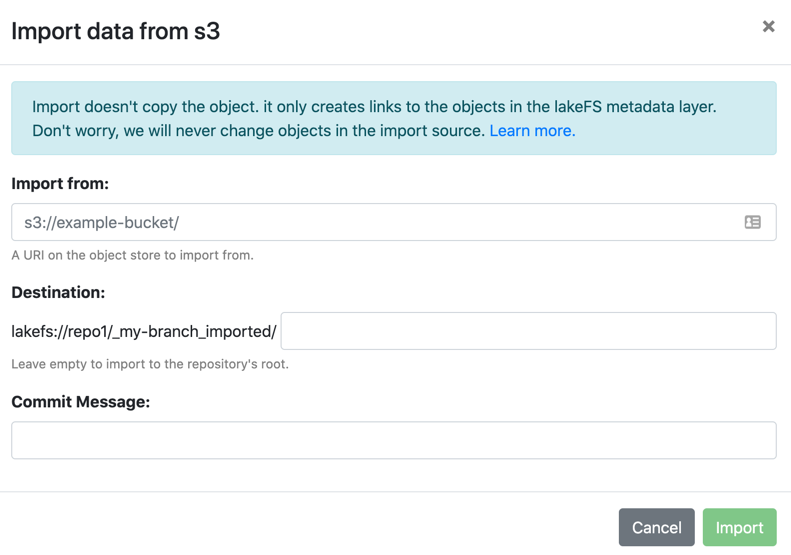
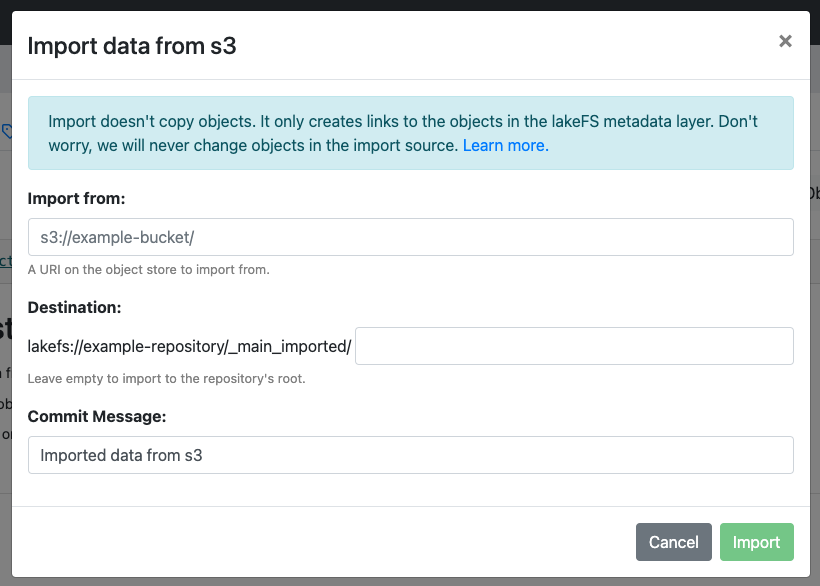
revised structure and clearer (hopefully) explanations on importing data (#4409)

Changed region(s): [[0.0, 0.0, 1.0, 1.0]]

diff --git a/docs/setup/import.md b/docs/setup/import.md
@@ -1,7 +1,7 @@
 ---
 layout: default
 title: Import data into lakeFS 
-description: To import existing data to lakeFS, you may choose to copy it using S3 CLI or using tools like Apache DistCp.
+description: Import existing data into a lakeFS repository
 parent: Set up lakeFS
 nav_order: 20
 has_children: false
@@ -12,32 +12,31 @@ redirect_from: ../reference/import.html
 
 {% include toc.html %}
 
-## Use external tools
-
-To import existing data to lakeFS, you may choose to copy it using [S3 CLI](../integrations/aws_cli.md#copy-from-a-local-path-to-lakefs) 
-or tools like [Apache DistCp](../integrations/distcp.md#from-s3-to-lakefs). This is the most straightforward way, and we recommend it if it’s applicable to you.
 
 ## Zero-copy import
 
-lakeFS supports three ways to ingest objects from the object store without copying the data.
-They differ by the outcome, scale, and ease of use:
+### Importing using the lakeFS UI
 
-1. Import from the UI - A UI dialog to trigger an import to a designated import branch. It creates a commit from all imported objects. Easy to use and scales well.
-1. `lakectl ingest` - You can use a simple CLI command to create uncommitted objects in a branch. It will make sequential calls between the CLI and the server, which makes scaling difficult.
-1. `lakefs import` - You can use the lakeFS binary to create a commit from an S3 inventory file. Supported only with lakeFS with S3 storage adapters.
-   Requires the greatest setup effort - lakeFS binary with DB access and an S3 inventory file. The most scalable option.
+#### Prerequisites
 
+lakeFS must have permissions to list the objects at the source object store,
+and in the same region of your destination bucket.
 
-### UI Import
+lakeFS supports two ways to ingest objects from the object store without copying the data:
+
+1. [Importing using the lakeFS UI](#importing-using-the-lakefs-ui) - A UI dialog to trigger an import to a designated import branch. It creates a commit from all imported objects.
+1. [Importing using lakectl cli](#importing-using-lakectl-cli) - You can use a the [`lakectl` CLI command](../reference/commands.md#lakectl) to create uncommitted objects in a branch. It will make sequential calls between the CLI and the server.
+
+#### Using the import wizard
 
 Clicking the Import button from any branch will open the following dialog:
 
-![ui-import.png](../assets/img/UI-Import-Dialog.png)
+![Import dialog example configured with S3](../assets/img/UI-Import-Dialog.png)
 
-If it's the first import to `my-branch`, it will create the import branch named `_my-branch_imported`.
+If it's the first import to the selected branch, it will create the import branch named `<branch_name>_imported`.
 lakeFS will import all objects from the Source URI to the import branch under the given prefix.
 
-Hang tight! It might take several minutes for the operation to complete:
+The UI will update periodically with the amount of objects imported. How long it takes depends on the amount of objects to be imported but will roughly be a few thousand objects per second.
 
 ![img.png](../assets/img/ui-import-waiting.png)
 
@@ -45,33 +44,20 @@ Once the import is completed, you can merge the changes from the import branch t
 
 ![img.png](../assets/img/ui-import-completed.png)
 
-#### Prerequisite
 
-lakeFS must have permissions to list the objects at the source object store,
-and in the same region of your destination bucket.
+### Importing using lakectl cli
 
-#### Limitations
-
-Importing is only possible from the object storage service in which your installation stores its data. For example, if lakeFS is configured on top of S3, you cannot import data from Azure.
-
-Although created by lakeFS, import branches are just like any other branch.
-Authorization policies, CI/CD triggering, branch protection rules and all other lakeFS concepts apply to them
-as they apply to any other branch.
-{: .note }
-
-
-### lakectl ingest
-
-For cases where copying data is not feasible, the `lakectl` command supports ingesting objects from a source object store without actually copying the data itself.
+The `lakectl` command supports ingesting objects from an external source.
 This is done by listing the source bucket (and optional prefix), and creating pointers to the returned objects in lakeFS.
 
-By doing this, you can take even large sets of objects and have them appear as objects in a lakeFS branch, as if they were written directly to it.
-
-For this to work, make sure that:
+#### Prerequisites
 
 1. The user calling `lakectl ingest` has permissions to list the objects at the source object store.
-2. The lakeFS installation has read permissions to the objects being ingested.
+2. _recommended_: The lakeFS installation has read permissions to the objects being ingested (to support downloading them directly from the lakeFS server)
 3. The source path is **not** a storage namespace used by lakeFS. For example, if `lakefs://my-repo` created with storage namespace `s3://my-bucket`, then `s3://my-bucket/*` cannot be an ingestion source.
+
+
+#### Using the `lakectl ingest` command
 
 <div class="tabs">
 <ul>
@@ -117,105 +103,17 @@ The `lakectl ingest` command currently supports the standard `GOOGLE_APPLICATION
 </div>
 
 
-### lakefs import
+### Limitations to importing data
 
-Importing a very large amount of objects (> ~250M) might take some time using `lakectl ingest` as described above,
-since it has to paginate through all the objects in the source using API calls.
 
-For S3, we provide a utility as part of the `lakefs` binary called `lakefs import`.
+Importing is only possible from the object storage service in which your installation stores its data. For example, if lakeFS is configured to use S3, you cannot import data from Azure.
 
-The lakeFS import tool will use the [S3 Inventory](https://docs.aws.amazon.com/AmazonS3/latest/dev/storage-inventory.html) feature to create lakeFS metadata.
-The imported metadata will be committed to a special branch, called `import-from-inventory`.
-
-You should not make any changes or commit anything to branch `import-from-inventory`: it will be operated on only by lakeFS.
-After importing, you will be able to merge this branch into your main branch.
+Although created by lakeFS, import branches behave like any other branch:
+Authorization policies, CI/CD triggering, branch protection rules and all other lakeFS concepts apply to them as well.
 {: .note }
 
-#### How it works
-{: .no_toc }
 
-The imported data is not copied to the repository’s dedicated bucket.
-Rather, it will be read directly from your existing bucket when you access it through lakeFS.
-Files created or replaced through lakeFS will then be stored in the repository’s dedicated bucket.
-
-It is important to note that due to the deduplication feature of lakeFS, data will be read from your original bucket even
-when accessing it through other branches. In a sense, your original bucket becomes an initial snapshot of your data.
-
-**Note:** lakeFS will never make any changes to the import source bucket.
-{: .note .pb-3 }
-
-#### Prerequisites
-{: .no_toc }
-
-- Your bucket should have S3 Inventory enabled.
-- The inventory should be in Parquet or ORC format.
-- The inventory must contain (at least) the size, last-modified-at, and e-tag columns.
-- The S3 credentials you provided to lakeFS should have GetObject permissions on the source bucket and on the bucket where the inventory is stored.
-- If you want to use the tool for [gradual import](#gradual-import), you should not delete the data for the most recently imported inventory, until a more recent inventory is successfully imported.
-
-For a step-by-step walkthrough of this process, see the post [3 Ways to Add Data to lakeFS](https://lakefs.io/3-ways-to-add-data-to-lakefs/) on our blog.
-{: .note .note-info }
-
-#### Usage
-{: .no_toc }
-
-Import is performed by the `lakefs import` command.
-
-Assuming your manifest.json is at `s3://example-bucket/path/to/inventory/YYYY-MM-DDT00-00Z/manifest.json`, and your lakeFS configuration YAML is at `config.yaml` (see notes below), run the following command to start the import:
-
-```bash
-lakefs import lakefs://example-repo -m s3://example-bucket/path/to/inventory/YYYY-MM-DDT00-00Z/manifest.json --config config.yaml
-```
-
-You will see the progress of your import as it's performed.
-After the import is finished, a summary will be printed along with suggestions for commands to access your data.
-
-```
-Added or changed objects: 565000
-Deleted objects: 0
-Commit ref: cf349ded0a0e65e20bd3b25ea8d9b656c2870b7f1f32f60eb1d90ca5873b6c03
-
-Import to branch import-from-inventory finished successfully.
-To list imported objects, run:
-	$ lakectl fs ls lakefs://example-repo/cf349ded0a0e65e20bd3b25ea8d9b656c2870b7f1f32f60eb1d90ca5873b6c03/
-To merge the changes to your main branch, run:
-	$ lakectl merge lakefs://example-repo/import-from-inventory lakefs://goo/main
-```
-
-##### Merging imported data to the main branch
-{: .no_toc }
-
-As previously mentioned, the above command imports data to the dedicated `import-from-inventory` branch.
-By adding the `--with-merge` flag to the import command, this branch will be automatically merged to your main branch immediately after the import.
-
-```bash
-lakefs import --with-merge lakefs://example-repo -m s3://example-bucket/path/to/inventory/YYYY-MM-DDT00-00Z/manifest.json --config config.yaml
-```
-
-##### Notes
-{: .no_toc }
-
-1. Perform the import from a machine with access to your database, and on the same region of your destination bucket.
-
-1. You can download the `lakefs` binary from [here](https://github.com/treeverse/lakeFS/releases). Make sure you choose one compatible with your installation of lakeFS.
-
-1. Use a configuration file like the one used to start your lakeFS installation. This will be used to access your database. An example can be found [here](../reference/configuration.html#example-aws-deployment).
-
-**Warning:** the *import-from-inventory* branch should only be used by lakeFS. You should not make any operations on it.
-{: .note } 
-
-#### Gradual Import
-{: .no_toc }
-
-Once you switch to using the lakeFS S3-compatible endpoint in all places, you can stop making changes to your original bucket.
-However, if your operation still requires that you work on the original bucket,
-you can repeat using the import API with up-to-date inventories every day, until you complete the onboarding process.
-
-You can specify only the prefixes that require import. lakeFS will merge those prefixes with the previous imported inventory.
-For example, a prefixes-file that contains only the prefix `new/data/`. The new commit to `import-from-inventory` branch will include all objects from the HEAD of that branch, except for objects with prefix `new/data/` that is imported from the inventory. 
-
-#### Limitations
-{: .no_toc }
+### Working with imported data
 
 Note that lakeFS cannot manage your metadata if you make changes to data in the original bucket.
 The following table describes the results of making changes in the original bucket, without importing it to lakeFS:
@@ -227,7 +125,7 @@ The following table describes the results of making changes in the original buck
 | Delete                               | Object visible                               | Object not accessible      |
 
 
-## Importing from public buckets
+### AWS S3: Importing from public buckets
 
 lakeFS needs access to the imported location to first list the files to import and later read the files upon users request. 
 
@@ -265,3 +163,13 @@ the following policy needs to be attached to the lakeFS S3 service-account to al
      ]
    }
    ```
+
+## Copying data into a lakeFS repository
+
+Another way of getting existing data into a lakeFS repository is by copying it. This has the advantage of having the objects along with their metadata managed by the lakeFS installation, along with lifecycle rules, immutability guarantees and consistent listing. However, do make sure to account for storage cost and time.
+
+To copy data into lakeFS you can use the following tools:
+
+1. The `lakectl` command line tool - see the [reference](../reference/commands.md#lakectl-fs-upload) to learn more about using it to copy local data into lakeFS. Using `lakectl fs upload --recursive` you can upload multiple objects together from a given directory.
+1. Using [rclone](../integrations/rclone.md)
+1. Using Hadoop's [DistCp](../integrations/distcp.md)
